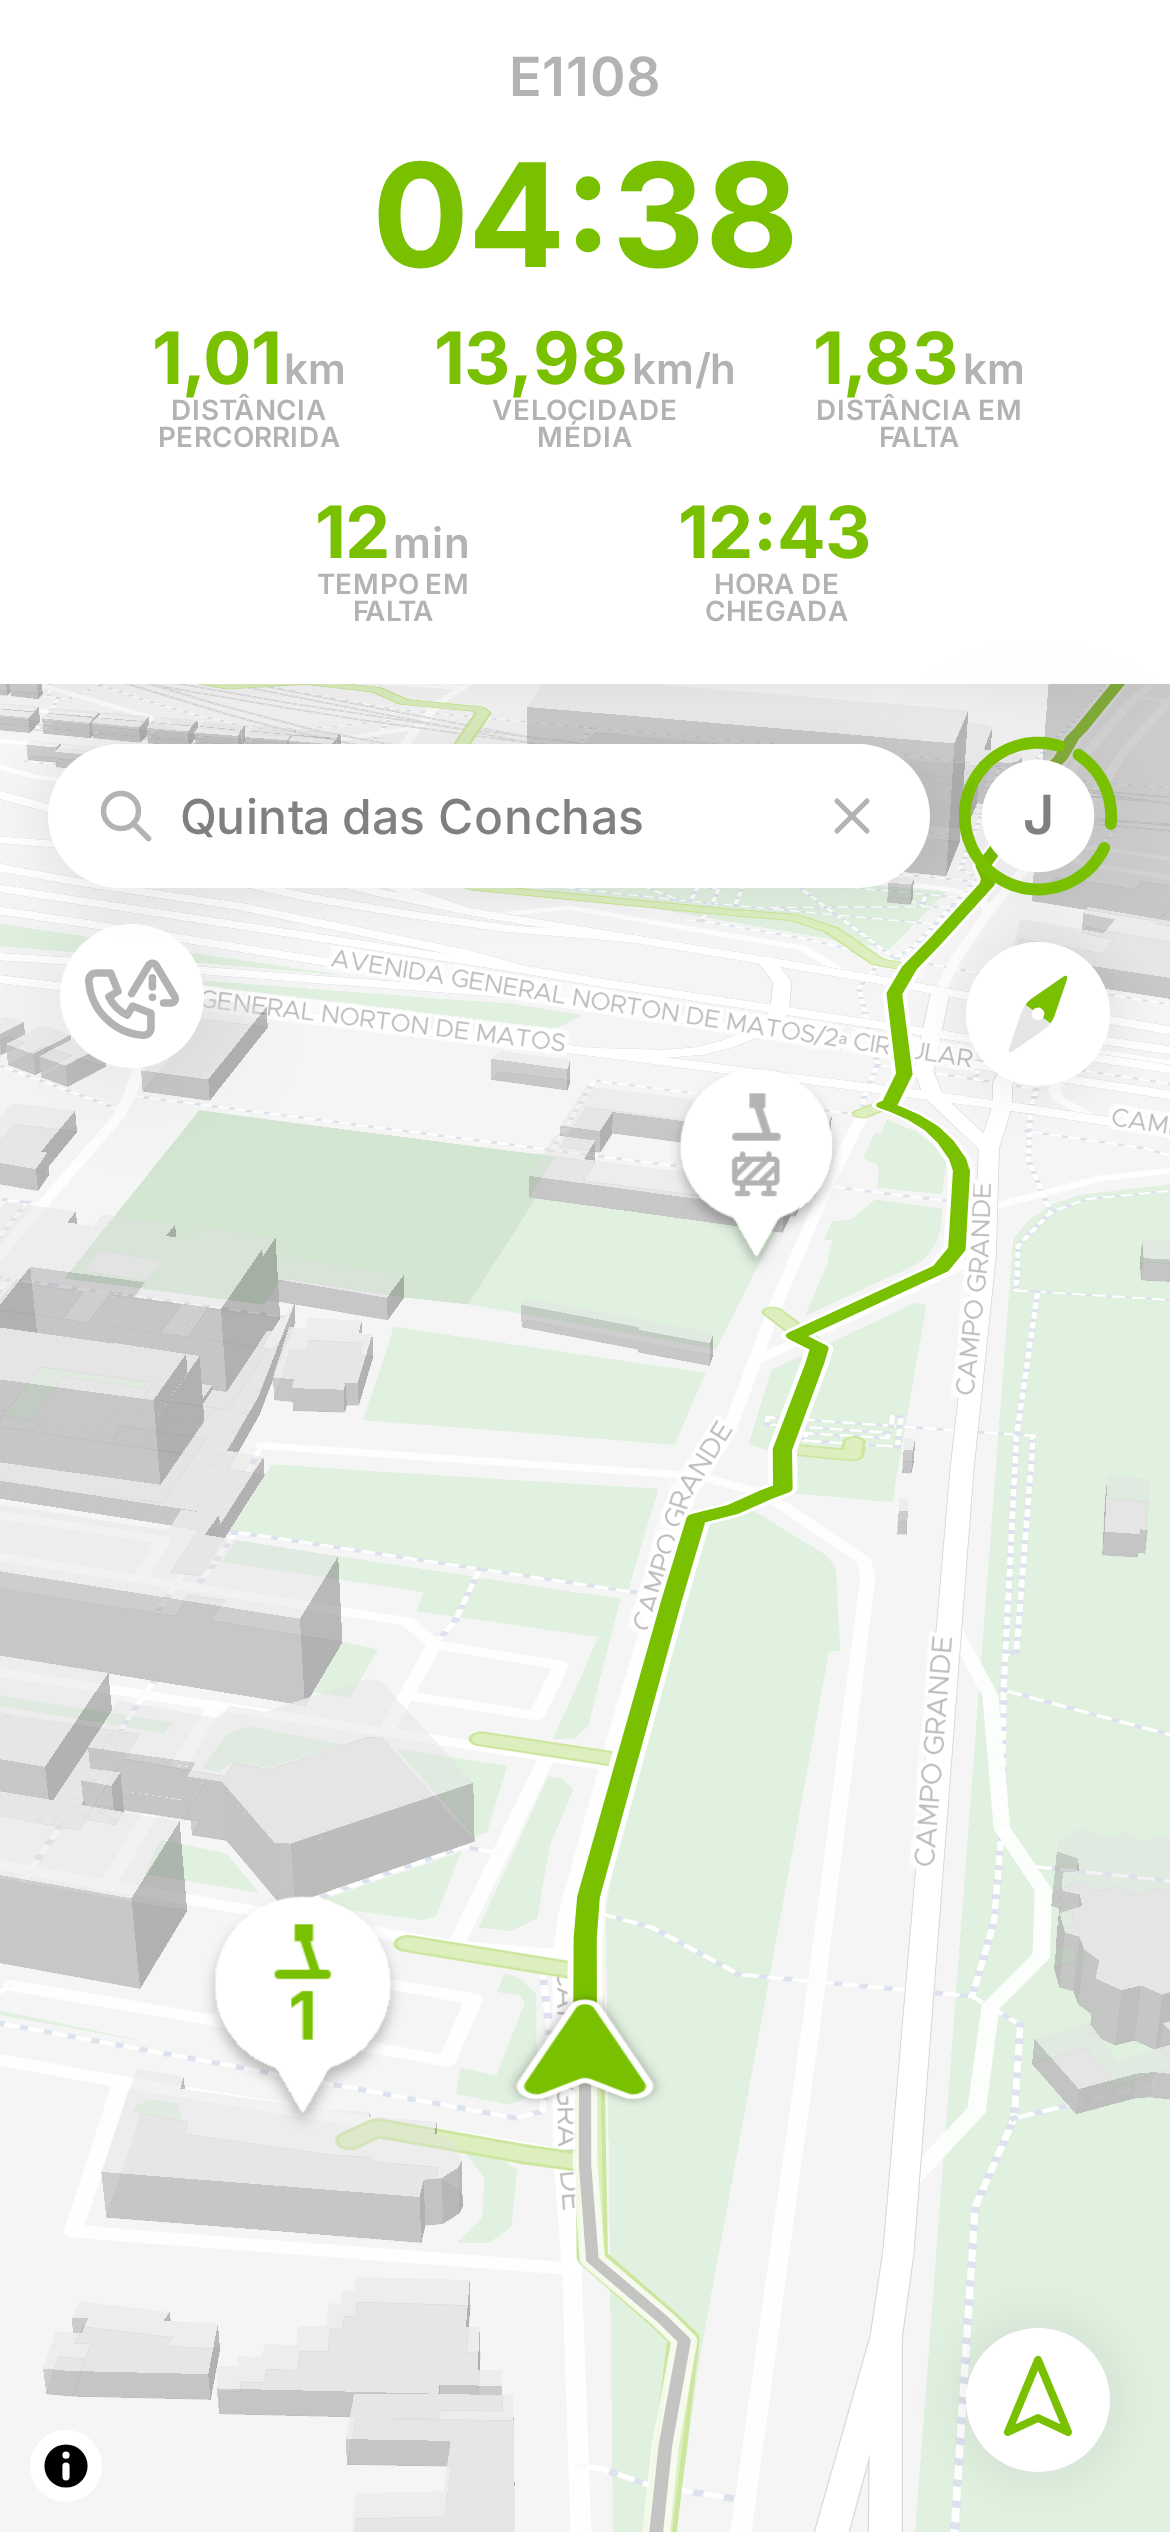
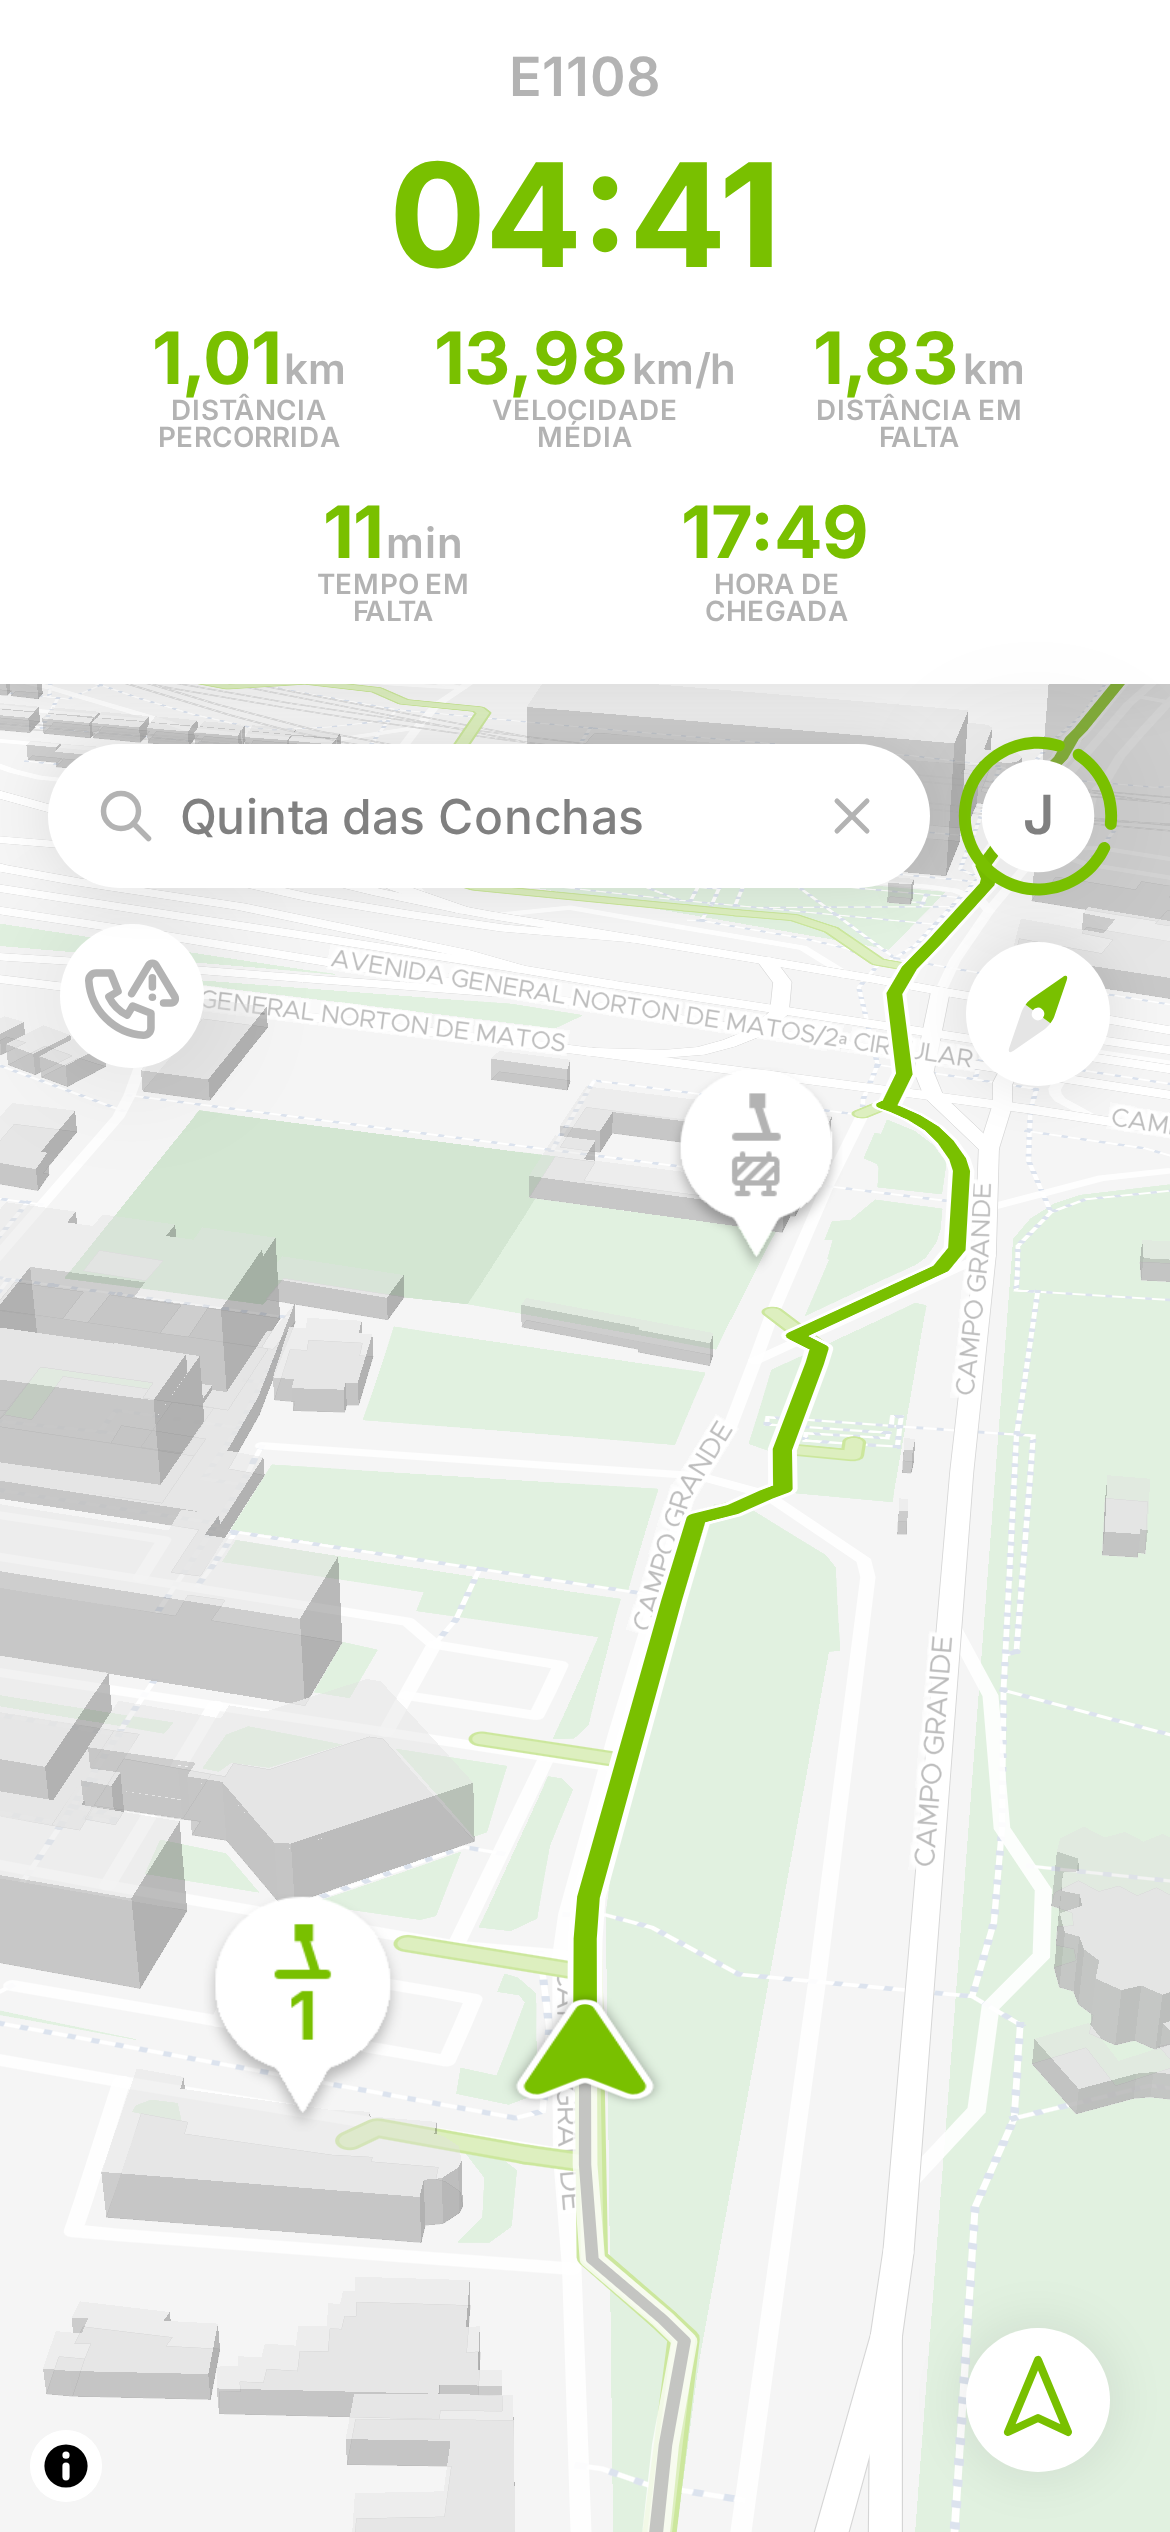
replace destination indicator with the trip history pin
The plain circle looked too much like the current position puck.
The pin is hidden when the destination is a station, since the
station bubble already marks the spot.

Changed region(s): [[0.3077, 0.0624, 0.6769, 0.1248], [0.5846, 0.1872, 0.7385, 0.2184], [0.2769, 0.1872, 0.4, 0.2184]]

diff --git a/src/lib/map.svelte.ts b/src/lib/map.svelte.ts
@@ -196,23 +196,18 @@ export function addLayers(map: maplibregl.Map) {
 		},
 	}, 'building');
 	map.addLayer({
-		'id': 'route-destination-outer',
-		'type': 'circle',
+		'id': 'route-destination',
+		'type': 'symbol',
 		'source': 'route-destination',
-		'paint': {
-			'circle-radius': 9,
-			'circle-color': getCssVariable('--color-background'),
+		'layout': {
+			'icon-image': 'destination-marker',
+			'icon-size': 0.3,
+			// pin tip sits exactly on the destination point
+			'icon-anchor': 'bottom',
+			'icon-allow-overlap': true,
+			'icon-ignore-placement': true,
 		},
-	}, 'building');
-	map.addLayer({
-		'id': 'route-destination-inner',
-		'type': 'circle',
-		'source': 'route-destination',
-		'paint': {
-			'circle-radius': 5.5,
-			'circle-color': getCssVariable('--color-primary'),
-		},
-	}, 'building');
+	});
 	map.addLayer({
 		'id': 'points',
 		'type': 'symbol',
@@ -304,6 +299,7 @@ export async function loadImages(map: maplibregl.Map) {
 	addOrReplace('bike_inactive_selected', await loadSvg('./assets/bike_marker_inactive_selected.svg', replaces));
 	addOrReplace('dock_inactive', await loadSvg('./assets/dock_marker_inactive.svg', replaces));
 	addOrReplace('dock_inactive_selected', await loadSvg('./assets/dock_marker_inactive_selected.svg', replaces));
+	addOrReplace('destination-marker', await loadSvg('./assets/destination_marker.svg', replaces));
 
 	const imgs = [['bike', './assets/bike_marker.svg', accent], ['bike_selected', './assets/bike_marker_selected.svg', replaces.background], ['dock', './assets/dock_marker.svg', accent], ['dock_selected', './assets/dock_marker_selected.svg', replaces.background]];
 	const canvas = document.createElement('canvas');

diff --git a/src/lib/components/Map.svelte b/src/lib/components/Map.svelte
@@ -451,9 +451,10 @@
 			})) ?? [],
 		});
 		const destination = get(routeDestination);
+		// A station destination is already marked by its station bubble
 		destSrc.setData({
 			type: 'FeatureCollection',
-			features: destination ? [{
+			features: destination && destination.type !== 'station' ? [{
 				type: 'Feature' as const,
 				properties: {},
 				geometry: {
